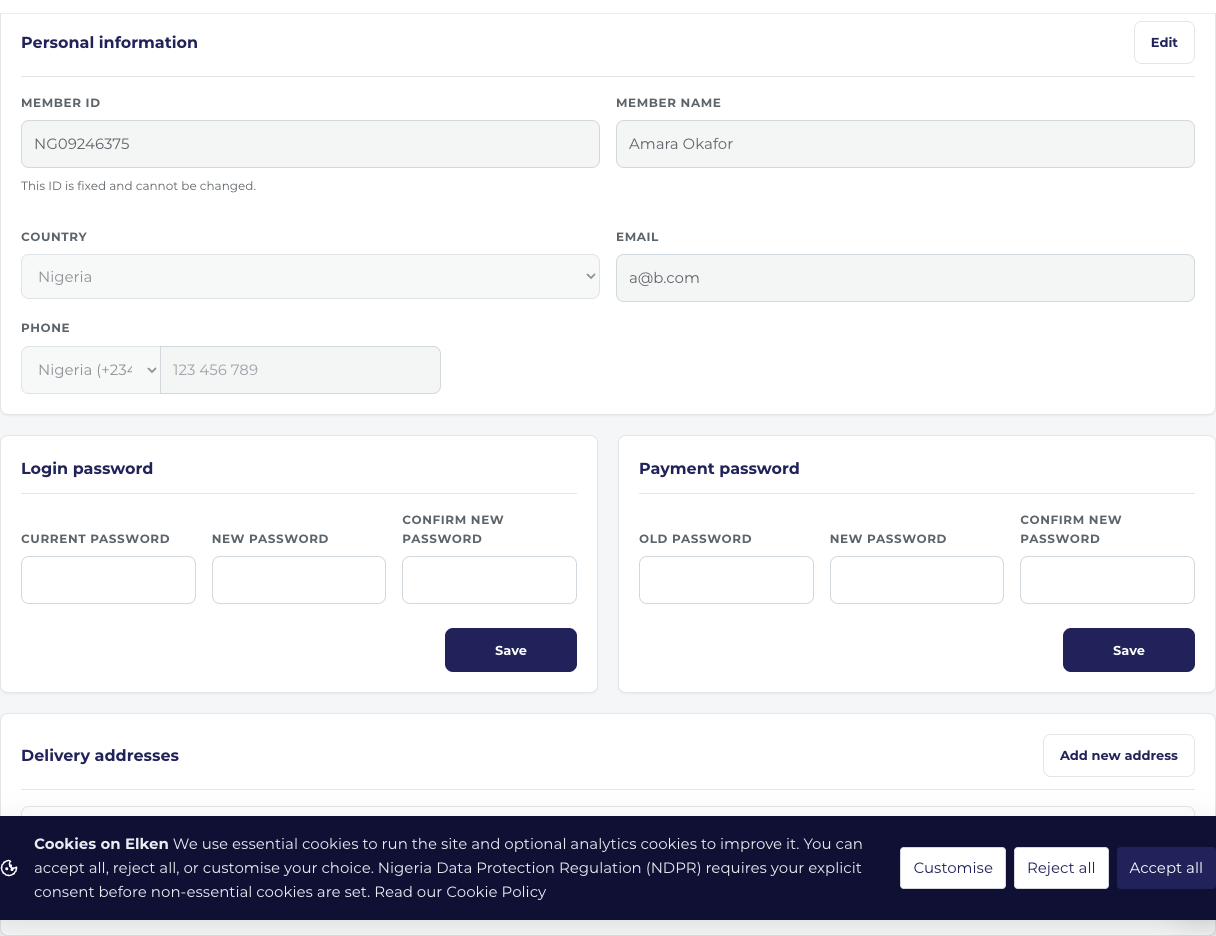
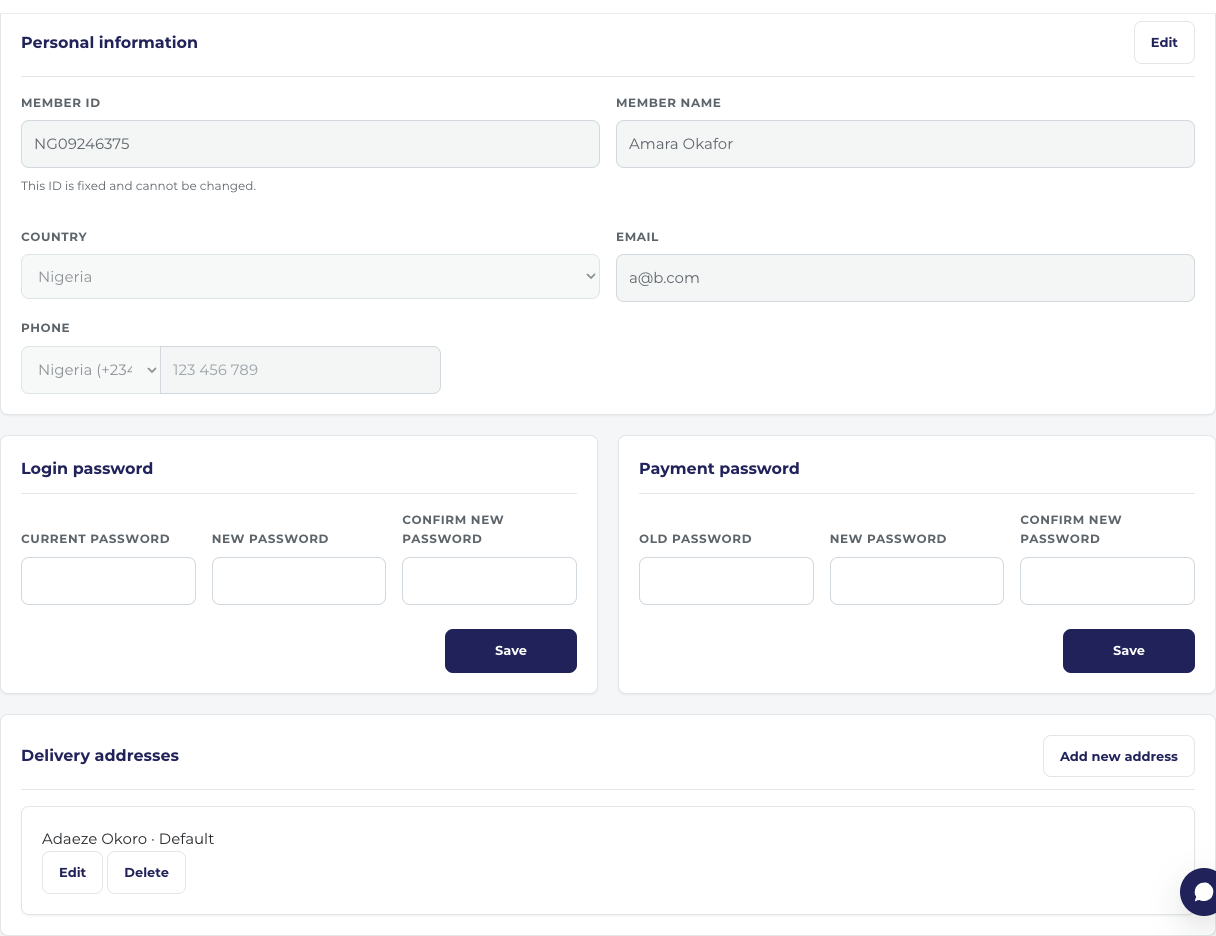
refactor(account): merge the referral share into the header card
The invite/share row is no longer a standalone band in Overview — it is
now the third band of the .dash-head card (identity row / 5-item basic
info bar / referral), hairline-separated like the others, so it sits
with the member identity on every tab. '.ref-spotlight' is gone in
favour of '.dash-referral' (styles move to account-ui.css section 3b).

Also fixes the puppeteer fixtures: the cookie-consent key is 'al.cookies',
so the banner no longer covers the bottom of every verification shot.

Changed region(s): [[0.0, 0.8675, 1.0, 0.9915], [0.875, 0.7746, 0.9688, 0.8365]]

diff --git a/.workbuddy/preview/verify-referral-header.js b/.workbuddy/preview/verify-referral-header.js
@@ -10,16 +10,18 @@ p.on('console',m=>{if(m.type()==='error'&&!/favicon/.test(m.text()))errs.push('c
 await p.setViewport({width:1280,height:1200});
 await p.evaluateOnNewDocument(()=>{
   localStorage.setItem('al.auth.user',JSON.stringify({memberId:'NG09246375',name:'Adaeze Okoro',email:'a@b.com',phone:'8031234567'}));
-  localStorage.setItem('al.cookieConsent',JSON.stringify({essential:true,ts:Date.now()}));
+  localStorage.setItem('al.cookies',JSON.stringify({essential:true,analytics:true,marketing:true,ts:Date.now()}));
 });
 await p.goto('http://localhost:'+PORT+'/account.html',{waitUntil:'networkidle2'});
 await new Promise(r=>setTimeout(r,1000));
 console.log('ORDER',JSON.stringify(await p.evaluate(()=>{
+  const h=document.querySelector('.dash-head');
   const v=document.querySelector('.dash-view[data-view="overview"]');
-  return [...v.children].map(c=>c.className||c.tagName);
+  return {header:[...h.children].map(c=>c.className||c.tagName),
+          overview:[...v.children].map(c=>c.className||c.tagName)};
 })));
 console.log('SPOT',JSON.stringify(await p.evaluate(()=>{
-  const el=document.querySelector('.ref-spotlight');
+  const el=document.querySelector('.dash-referral');
   const link=document.getElementById('referralLink');
   const share=document.getElementById('referralShare');
   const copy=document.getElementById('referralCopy');
@@ -34,8 +36,10 @@ console.log('SPOT',JSON.stringify(await p.evaluate(()=>{
     panelBg:cs.backgroundColor, flexDir:cs.flexDirection,
     // is the old small card gone from the left column?
     oldCardInColumn:!!document.querySelector('.overview-grid .order-link-row'),
-    // is the spotlight above the hub grid in document order?
-    aboveHub:(el.compareDocumentPosition(document.getElementById('hubGrid')) & Node.DOCUMENT_POSITION_FOLLOWING) > 0,
+    inHeader:el.parentElement.classList.contains('dash-head'),
+    headerHasIdentity:!!el.parentElement.querySelector('#dashAvatar'),
+    afterBasicInfo:(el.previousElementSibling||{}).id==='profileBasicInfoBar',
+    onlyOneInstance:document.querySelectorAll('.dash-referral').length,
   };
 })));
 // share button: three paths — resolves / aborts / fails
@@ -77,27 +81,27 @@ console.log('COPY CLICK',JSON.stringify(await p.evaluate(async ()=>{
 // overflow check
 console.log('OVERFLOW',JSON.stringify(await p.evaluate(()=>({
   docScrollW:document.documentElement.scrollWidth, innerW:window.innerWidth,
-  overflows:[...document.querySelectorAll('.ref-spotlight, .ref-spotlight *')]
+  overflows:[...document.querySelectorAll('.dash-head, .dash-referral, .dash-referral *')]
     .filter(e=>e.getBoundingClientRect().right>window.innerWidth+1)
     .map(e=>e.className||e.tagName)
 }))));
-const el=await p.$('.ref-spotlight'); if(el) await el.screenshot({path:path.join(OUT,'referral-spotlight-d.png')}).catch(()=>{});
-const ov=await p.$('.dash-view[data-view="overview"]'); if(ov) await ov.screenshot({path:path.join(OUT,'referral-overview-d.png'),fullPage:false}).catch(()=>{});
+const el=await p.$('.dash-head'); if(el) await el.screenshot({path:path.join(OUT,'referral-header-d.png')}).catch(()=>{});
+const ov=await p.$('.dash-view[data-view="overview"]'); if(ov) await ov.screenshot({path:path.join(OUT,'referral-header-page-d.png'),fullPage:false}).catch(()=>{});
 // tab switch then back, to be sure the spotlight is not duplicated / lost
 await p.evaluate(()=>{document.querySelector('#dashTabs a[data-tab="orders"]').click();});
 await new Promise(r=>setTimeout(r,400));
 await p.evaluate(()=>{document.querySelector('#dashTabs a[data-tab="overview"]').click();});
 await new Promise(r=>setTimeout(r,400));
 console.log('AFTER TAB',JSON.stringify(await p.evaluate(()=>({
-  count:document.querySelectorAll('.ref-spotlight').length,
+  count:document.querySelectorAll('.dash-referral').length,
   linkValue:document.getElementById('referralLink').value,
   shareHandlersOK:(()=>{const s=document.getElementById('referralShare');return !!s;})()
 }))));
 await p.setViewport({width:390,height:900});
 await new Promise(r=>setTimeout(r,400));
-const el2=await p.$('.ref-spotlight'); if(el2) await el2.screenshot({path:path.join(OUT,'referral-spotlight-m.png')}).catch(()=>{});
+const el2=await p.$('.dash-head'); if(el2) await el2.screenshot({path:path.join(OUT,'referral-header-m.png')}).catch(()=>{});
 console.log('MOBILE',JSON.stringify(await p.evaluate(()=>{
-  const el=document.querySelector('.ref-spotlight'); const r=el.getBoundingClientRect();
+  const el=document.querySelector('.dash-referral'); const r=el.getBoundingClientRect();
   const s=document.getElementById('referralShare').getBoundingClientRect();
   return {width:Math.round(r.width), height:Math.round(r.height), shareW:Math.round(s.width),
           docScrollW:document.documentElement.scrollWidth, innerW:window.innerWidth};

diff --git a/assets/css/account-ui.css b/assets/css/account-ui.css
@@ -237,6 +237,35 @@
   }
 }
 
+/* Referral row — part of the header card (identity row · basic info bar · referral),
+   hairline-separated so it reads as another band of the same card. Text sits left,
+   the link field takes the middle, Share / Copy close the row on the right. */
+.dash-head > .dash-referral {
+  flex: 1 1 100%;
+  display: flex; flex-direction: row; align-items: flex-end; flex-wrap: wrap;
+  gap: var(--ek-12) var(--ek-24);
+  margin-top: var(--ek-4);
+  padding-top: var(--ek-16);
+  border-top: 1px solid var(--ek-border);
+}
+.dash-referral-copy { flex: 1 1 320px; min-width: 0; }
+.dash-referral-eyebrow {
+  display: block; margin-bottom: var(--ek-4);
+  font-size: var(--ek-caption); font-weight: var(--ek-w-bold);
+  letter-spacing: .12em; text-transform: uppercase; color: var(--ek-info);
+}
+.dash-referral-title { margin: 0 0 var(--ek-4); font-size: var(--ek-h4); color: var(--ek-blue); }
+.dash-referral-desc { margin: 0; font-size: var(--ek-caption); color: var(--ek-muted); }
+.dash-referral-field { flex: 1 1 260px; min-width: 0; display: flex; }
+.dash-referral-field .ek-input { flex: 1 1 220px; min-width: 0; }
+.dash-referral-actions { flex: 0 0 auto; display: flex; gap: var(--ek-8); flex-wrap: wrap; }
+.dash-referral-actions .ek-btn { gap: var(--ek-8); }
+@media (max-width: 767px) {
+  .dash-referral-field,
+  .dash-referral-actions { flex: 1 1 100%; }
+  .dash-referral-actions .ek-btn { flex: 1 1 auto; justify-content: center; }
+}
+
 /* --------------------------------------------------------------------------
    4. Tabs — .tabs reads as .ek-tabs (underline-active, not a filled pill)
    -------------------------------------------------------------------------- */
@@ -354,35 +383,6 @@
 .referral-row-sub { font-size: var(--ek-caption); color: var(--ek-muted); }
 .referral-row-bv { margin-left: auto; color: var(--ek-blue); font-weight: var(--ek-w-bold); font-variant-numeric: tabular-nums; }
 .referral-empty { font-size: var(--ek-small); color: var(--ek-muted); }
-
-/* --------------------------------------------------------------------------
-   7b. Referral spotlight — full-width "invite & earn" band at the top of Overview
-   The Share action used to be a small ghost button buried at the bottom of the
-   left column of the overview grid; it now leads the page as the primary CTA.
-   `.ek-card` is a flex column, so the row direction must be set explicitly.
-   -------------------------------------------------------------------------- */
-.ref-spotlight {
-  display: flex; flex-direction: row; align-items: center;
-  justify-content: space-between; gap: var(--ek-24); flex-wrap: wrap;
-  padding: var(--ek-24) var(--ek-32);
-  background: var(--ek-info-tint);
-  border-color: var(--ek-panel-cool);
-}
-.ref-spotlight-copy { flex: 1 1 420px; min-width: 0; }
-.ref-spotlight-eyebrow {
-  display: block; margin-bottom: var(--ek-8);
-  font-size: var(--ek-caption); font-weight: var(--ek-w-bold);
-  letter-spacing: .12em; text-transform: uppercase; color: var(--ek-info);
-}
-.ref-spotlight-title { margin: 0 0 var(--ek-8); font-size: var(--ek-h2); color: var(--ek-blue); }
-.ref-spotlight-desc { margin: 0 0 var(--ek-16); font-size: var(--ek-small); color: var(--ek-muted); }
-.ref-spotlight-field { display: flex; gap: var(--ek-8); }
-.ref-spotlight-field .ek-input { flex: 1 1 220px; min-width: 0; background: var(--ek-surface); }
-.ref-spotlight-actions { display: flex; flex-direction: column; gap: var(--ek-8); flex: 0 1 240px; min-width: 200px; }
-.ref-spotlight-actions .ek-btn { width: 100%; justify-content: center; gap: var(--ek-8); }
-.ref-share-btn { font-size: var(--ek-lead); }
-.ref-share-btn svg { flex: 0 0 auto; }
-.ref-spotlight-hint { margin: 0; font-size: var(--ek-caption); color: var(--ek-muted); text-align: center; }
 
 /* --------------------------------------------------------------------------
    8. Orders — segmented control + order cards
@@ -985,8 +985,6 @@
   .profile-actions .ek-btn,
   .mug-actions .ek-btn,
   .mrp-actions .ek-btn { width: 100%; }
-  .ref-spotlight { padding: var(--ek-20); }
-  .ref-spotlight-actions { flex: 1 1 100%; min-width: 0; }
   .dash-head { flex-wrap: wrap; }
   .dash-actions { margin-left: 0; width: 100%; }
   .dash-actions .ek-btn { width: 100%; }

diff --git a/account.html b/account.html
@@ -38,6 +38,27 @@
         <div class="basic-info-bar" id="profileBasicInfoBar">
           <!-- Rendered by JS: 5 items with icon + label + value -->
         </div>
+
+        <!-- Referral link — merged into the header card so the invite/share action
+             sits with the member identity instead of living in its own band.
+             Visible on every tab (the header is outside the .dash-view panels). -->
+        <div class="dash-referral" aria-labelledby="referralTitle">
+          <div class="dash-referral-copy">
+            <span class="dash-referral-eyebrow">Invite &amp; earn</span>
+            <h2 class="dash-referral-title" id="referralTitle">Your referral link</h2>
+            <p class="dash-referral-desc">Share this link. When friends order <b>without signing in</b>, their order's BV is credited to your member ID.</p>
+          </div>
+          <div class="dash-referral-field">
+            <input class="ek-input" id="referralLink" readonly aria-label="Your referral link" />
+          </div>
+          <div class="dash-referral-actions">
+            <button class="ek-btn ek-btn--primary" id="referralShare" type="button">
+              <svg width="18" height="18" viewBox="0 0 24 24" aria-hidden="true" focusable="false"><path fill="currentColor" d="M18 16.08c-.76 0-1.44.3-1.96.77L8.91 12.7c.05-.23.09-.46.09-.7s-.04-.47-.09-.7l7.05-4.11c.54.5 1.25.81 2.04.81a3 3 0 1 0-3-3c0 .24.04.47.09.7L8.04 9.81A3 3 0 1 0 6 15c.79 0 1.5-.31 2.04-.81l7.12 4.16c-.05.21-.08.43-.08.65a2.92 2.92 0 1 0 2.92-2.92z"/></svg>
+              <span>Share link</span>
+            </button>
+            <button class="ek-btn ek-btn--secondary" id="referralCopy" type="button">Copy link</button>
+          </div>
+        </div>
       </div>
 
       <nav class="tabs" id="dashTabs">
@@ -73,29 +94,6 @@
             <button type="button" class="ek-btn ek-btn--sm ek-btn--primary mt-2" id="ecoinHistoryBtn">View History</button>
           </div>
         </div>
-
-        <!-- ===== Referral spotlight: invite & earn =====
-             Moved to the top of Overview (full width, right under the KPI row) so the
-             Share action is impossible to miss — it used to hide in a small ghost
-             button at the bottom of the left column. -->
-        <section class="ek-card ref-spotlight" aria-labelledby="refSpotlightTitle">
-          <div class="ref-spotlight-copy">
-            <span class="ref-spotlight-eyebrow">Invite &amp; earn</span>
-            <h2 class="ref-spotlight-title" id="refSpotlightTitle">Your referral link</h2>
-            <p class="ref-spotlight-desc">Share this link. When friends order <b>without signing in</b>, their order's BV is credited to your member ID.</p>
-            <div class="ref-spotlight-field">
-              <input class="ek-input" id="referralLink" readonly aria-label="Your referral link" />
-            </div>
-          </div>
-          <div class="ref-spotlight-actions">
-            <button class="ek-btn ek-btn--lg ref-share-btn" id="referralShare" type="button">
-              <svg width="18" height="18" viewBox="0 0 24 24" aria-hidden="true" focusable="false"><path fill="currentColor" d="M18 16.08c-.76 0-1.44.3-1.96.77L8.91 12.7c.05-.23.09-.46.09-.7s-.04-.47-.09-.7l7.05-4.11c.54.5 1.25.81 2.04.81a3 3 0 1 0-3-3c0 .24.04.47.09.7L8.04 9.81A3 3 0 1 0 6 15c.79 0 1.5-.31 2.04-.81l7.12 4.16c-.05.21-.08.43-.08.65a2.92 2.92 0 1 0 2.92-2.92z"/></svg>
-              <span>Share link</span>
-            </button>
-            <button class="ek-btn ek-btn--secondary" id="referralCopy" type="button">Copy link</button>
-            <p class="ref-spotlight-hint">Opens your share sheet</p>
-          </div>
-        </section>
 
         <!-- ===== 九宫格多功能入口 ===== -->
         <div class="hub-grid" id="hubGrid">

diff --git a/.workbuddy/preview/verify-country-lock.js b/.workbuddy/preview/verify-country-lock.js
@@ -27,7 +27,7 @@ p.on('console',m=>{if(m.type()==='error'&&!/favicon/.test(m.text()))errs.push('c
 await p.setViewport({width:1280,height:1100});
 await p.evaluateOnNewDocument(()=>{
   localStorage.setItem('al.auth.user',JSON.stringify({memberId:'NG09246375',name:'Adaeze Okoro',email:'a@b.com',phone:'8031234567'}));
-  localStorage.setItem('al.cookieConsent',JSON.stringify({essential:true,ts:Date.now()}));
+  localStorage.setItem('al.cookies',JSON.stringify({essential:true,analytics:true,marketing:true,ts:Date.now()}));
 });
 await p.goto('http://localhost:'+PORT+'/account.html',{waitUntil:'networkidle2'});
 await new Promise(r=>setTimeout(r,900));

diff --git a/.workbuddy/preview/verify-member-upgrade.js b/.workbuddy/preview/verify-member-upgrade.js
@@ -10,7 +10,7 @@ p.on('console',m=>{if(m.type()==='error'&&!/favicon/.test(m.text()))errs.push('c
 await p.setViewport({width:1280,height:1000});
 await p.evaluateOnNewDocument(()=>{
   localStorage.setItem('al.auth.user',JSON.stringify({memberId:'NG09246375',name:'Adaeze Okoro',email:'a@b.com'}));
-  localStorage.setItem('al.cookieConsent',JSON.stringify({essential:true,ts:Date.now()}));
+  localStorage.setItem('al.cookies',JSON.stringify({essential:true,analytics:true,marketing:true,ts:Date.now()}));
 });
 await p.goto('http://localhost:'+PORT+'/member-upgrade.html',{waitUntil:'networkidle2'});
 await new Promise(r=>setTimeout(r,800));

diff --git a/.workbuddy/preview/verify-account-prefs.js b/.workbuddy/preview/verify-account-prefs.js
@@ -10,7 +10,7 @@ p.on('console',m=>{if(m.type()==='error'&&!/favicon/.test(m.text()))errs.push('c
 await p.setViewport({width:1280,height:1000});
 await p.evaluateOnNewDocument(()=>{
   localStorage.setItem('al.auth.user',JSON.stringify({memberId:'NG09246375',name:'Adaeze Okoro',email:'a@b.com'}));
-  localStorage.setItem('al.cookieConsent',JSON.stringify({essential:true,ts:Date.now()}));
+  localStorage.setItem('al.cookies',JSON.stringify({essential:true,analytics:true,marketing:true,ts:Date.now()}));
 });
 await p.goto('http://localhost:'+PORT+'/account.html',{waitUntil:'networkidle2'});
 await new Promise(r=>setTimeout(r,900));

diff --git a/.workbuddy/memory/MEMORY.md b/.workbuddy/memory/MEMORY.md
@@ -50,9 +50,10 @@
 - ⚠ `.bank-row` 的布局以前只在已弃用的 `pages.css` 里定义过 → 银行行会“标签值挤在一起”；现由 `payment-methods.css` 的 `.bank-rows .bank-row` 提供。
 
 ### 账户页 Overview 版式（2026-09-15）
-- 顺序：`.dash-head` → KPI 行（`.kpi-grid.two-kpi`）→ **referral spotlight** → 九宫格 `#hubGrid` → `.overview-grid`。
-- **Referral 分享区在全宽 band `.ref-spotlight`**（用户要求「分享功能放在显眼一点的地方」）：左 = `INVITE & EARN` eyebrow + 标题 + 只读 `#referralLink`，右 = **Share link（primary `ek-btn--lg`）** + Copy link（secondary）+ hint。样式在 `account-ui.css` **§7b**，移动端在 §17。⚠ `.ek-card` 自身是 `flex-direction:column`，`.ref-spotlight` 必须显式 `flex-direction: row`。不要再把这块塞回 `.overview-grid` 左列（原来那样要滚动才看得到）。
-- `#referralLink` / `#referralCopy` / `#referralShare` 三个 id 是 `wireReferralLink()` 的锚点，**改名等于断掉分享逻辑**。Share 用 `navigator.share`，失败（非 `AbortError`）自动回退剪贴板。
+- **`.dash-head` 是唯一的头部卡片**，子元素顺序：`ek-avatar` → `dash-head-id` → `dash-actions`(Sign out) → `basic-info-bar`(5 项) → **`dash-referral`**（各段用 hairline 分隔）。它在 `.dash-view` 之外 → **所有标签页都可见**。
+- **Referral 分享区在头部卡内**（用户要求「和头部那块合并在一块儿」）：左 = `INVITE & EARN` + 标题 + 说明，中 = 只读 `#referralLink`，右 = **Share link（primary）** + Copy link（secondary）。样式在 `account-ui.css` **§3b**（`.dash-referral*`，含 ≤767px 规则）；内容宽由 `flex: 1 1 100%` 撑满一行。
+  - 历史：曾短暂做过独立的 `.ref-spotlight` 全宽 band（在 KPI 行下方），已删除，**不要再复活这个类**。
+  - `#referralLink` / `#referralCopy` / `#referralShare` 三个 id 是 `wireReferralLink()` 的锚点，改名等于断掉分享逻辑。Share 用 `navigator.share`，失败（非 `AbortError`）自动回退剪贴板。
 
 ### 账户页两处固定结构（2026-09-15）
 - **Basic Information 常驻顶部卡**：`#profileBasicInfoBar`（5 项：系统时间/结算周期/会员等级/最高荣耀/Elite）**在 `.dash-head` 内**，不是 Profile 标签页的独立卡（那张已删除）。`renderProfileBasicBar()` 必须在 `DOMContentLoaded` 里 `showView()` **之前**调一次，否则首屏 Overview 是空的。布局由 `account-ui.css` §3 的 `.dash-head > .basic-info-bar` 负责（内容自适应 flex + `space-between` + 上方 hairline；≤767px 转 grid）。**不要**改回等宽 grid——系统时间值会折行并把该列顶歪。
@@ -95,7 +96,7 @@
 - **本机视觉/功能验证可行且强烈推荐**：写**单进程** node 脚本（脚本内先 `http.createServer` 起静态服务，再启 puppeteer）→ 避免后台服务被沙箱回收。
   - 命令：`NODE_PATH=/Users/wang/.workbuddy/binaries/node/workspace/node_modules /Users/wang/.workbuddy/binaries/node/versions/22.22.2/bin/node <script>.js`
   - Chrome 路径：`/Applications/Google Chrome.app/Contents/MacOS/Google Chrome`
-  - 预设登录态用 `page.evaluateOnNewDocument` 写 **`al.auth.user`** + `al.memberData` + `al.cart`。
+  - 预设登录态用 `page.evaluateOnNewDocument` 写 **`al.auth.user`** + `al.memberData` + `al.cart`；**关掉 cookie 横幅要写 `al.cookies`**（`{essential:true,analytics:true,marketing:true,ts}` 的 JSON），写 `al.cookieConsent` 无效（键名不对，横幅照旧显示并挡住截图底部）。
   - 验证要点：监听 `pageerror` / `console` error；**截图要按元素截**（`elementHandle.screenshot()`），整页视口截图会因目标在折叠下方而完全看不出差异（还会出现多个渠道截图字节数相同的假象）。
   - 现成脚本：`.workbuddy/preview/verify-pay.js`（渠道/门控/访客态断言）、`verify-panels.js`（逐渠道元素级截图 + 面板文案去重）、`verify-account-prefs.js`（Profile 标签页结构）、`verify-country-lock.js`（Country 锁定）。
   - ⚠ **account.html 的 Personal information 表单（`#profileForm`）有 HTML5 校验门槛**：Phone 是 `ProductCatalog.phoneFieldHTML()` 生成的 `required` tel 输入。夹具里 `al.auth.user` 若没有 `phone`，`form.checkValidity()` 为 false → **Chrome 直接不派发 submit**（只在 console 打一条不可聚焦 warning），表现为「点保存没反应」。写自动化前先把 `phone` 塞进夹具；调试表单提交不要用点击，直接 `form.requestSubmit()` / `dispatchEvent(new Event('submit',{cancelable:true,bubbles:true}))`。

diff --git a/.workbuddy/memory/2026-09-15.md b/.workbuddy/memory/2026-09-15.md
@@ -147,3 +147,12 @@
 - 顺带：把 `.referral-desc` 这条死样式删掉（随老卡片一起废弃）；`account.html` 里 account-ui.css 版本号 → `?v=20260915a`。
 - JS 小改进：`wireReferralLink()` 抽出 `copyToClipboard(text, ok)` 共用；Share 走 `navigator.share(...)`，**失败时（非 `AbortError`）自动回退到剪贴板 + toast**，用户主动取消则保持安静（之前 `.catch(()=>{})` 什么都不做）。
 - 验证（`.workbuddy/preview/verify-referral-spotlight.js`）：spotlight 位置/尺寸（1216×208，`flex-direction:row`）、链接已填充 `?ref=NG09246375`、Share 按钮 240×52 且底色 `rgb(32,34,89)`（=--ek-blue）；Share 三条路径（resolve / AbortError / 失败回退剪贴板）行为正确；Copy 写入正确链接 + toast；切到 Orders 再回 Overview 仍只有 1 个 spotlight 且链接正常；桌面 1280 与移动 390 都无横向溢出（`scrollWidth == innerWidth`）；无 JS 报错。回归 `verify-account-prefs.js` + `verify-pay.js` 全通过。
+
+## 14. Referral 分享区与账户头部卡片合并（用户：「Your referral link 这块和（头像/会员ID/Sign out/5 项基本信息）如图的部分合并在一块儿」）
+- 用户给了 `.dash-head` 的截图，要求把上一轮做的 referral 横幅**并进头部卡片**（而不是独立 band）。所以本轮把 §13 的全宽 `.ref-spotlight` band **整段删除**，改为头部卡里的第 3 个 band。
+- 结构（`.dash-head` 子元素顺序，实测）：`ek-avatar` → `dash-head-id` → `dash-actions` → `basic-info-bar` → **`dash-referral`**；Overview 视图内只剩 `kpi-grid` / `hub-grid` / `overview-grid`。
+- `.dash-referral`：`flex:1 1 100%` 独占一行 + `border-top` hairline（与 basic-info-bar 同款节奏），内部三段：文案（eyebrow `INVITE & EARN` + `Your referral link` + 说明）· 链接输入框 · `Share link`(primary) + `Copy link`(secondary)；`align-items:flex-end` 让输入框/按钮与文案底部对齐。按钮改回默认尺寸（44px），不再用 `ek-btn--lg`。
+- 类名从 `.ref-spotlight*` → **`.dash-referral*`**（id 仍是 `#referralLink` / `#referralCopy` / `#referralShare`，标题 id → `#referralTitle`）；CSS 从 §7b 移到 **§3b**（紧挨 `.dash-head > .basic-info-bar`），§17 里的旧 `.ref-spotlight` 移动端规则已删，改在 §3b 自带 `@media (max-width:767px)`（链接框与按钮组各占满行、按钮等宽）。
+- ⚠ 副作用（有意为之）：`dash-head` 在 `.dash-view` 之外，所以**分享区现在在所有标签页（Overview/Orders/Profile/Sponsor）都可见**。
+- ⚠ **夹具 bug（已修正）**：本地验证脚本一直写 `al.cookieConsent`，而 app.js 真实的同意键是 **`al.cookies`**（`{essential,analytics,marketing,ts}` 的 JSON），所以之前的截图右下角一直挂着 cookie 横幅。4 个 verify 脚本已统一改为写 `al.cookies`，截图干净了。
+- 验证（`.workbuddy/preview/verify-referral-header.js`，由 verify-referral-spotlight.js 改名）：`dash-head` 子元素顺序含 `dash-referral` 且紧随 `#profileBasicInfoBar`、全页只有 1 个实例、链接已填 `?ref=NG09246375`、Share 三条路径正确、Copy 正常、切标签后仍只有 1 个且链接正常、桌面 1280 / 移动 390 均无横向溢出、无 JS 报错。回归 verify-account-prefs / verify-country-lock / verify-member-upgrade 全通过。旧截图 `referral-spotlight-*.png` / `referral-overview-d.png` 已删除。
